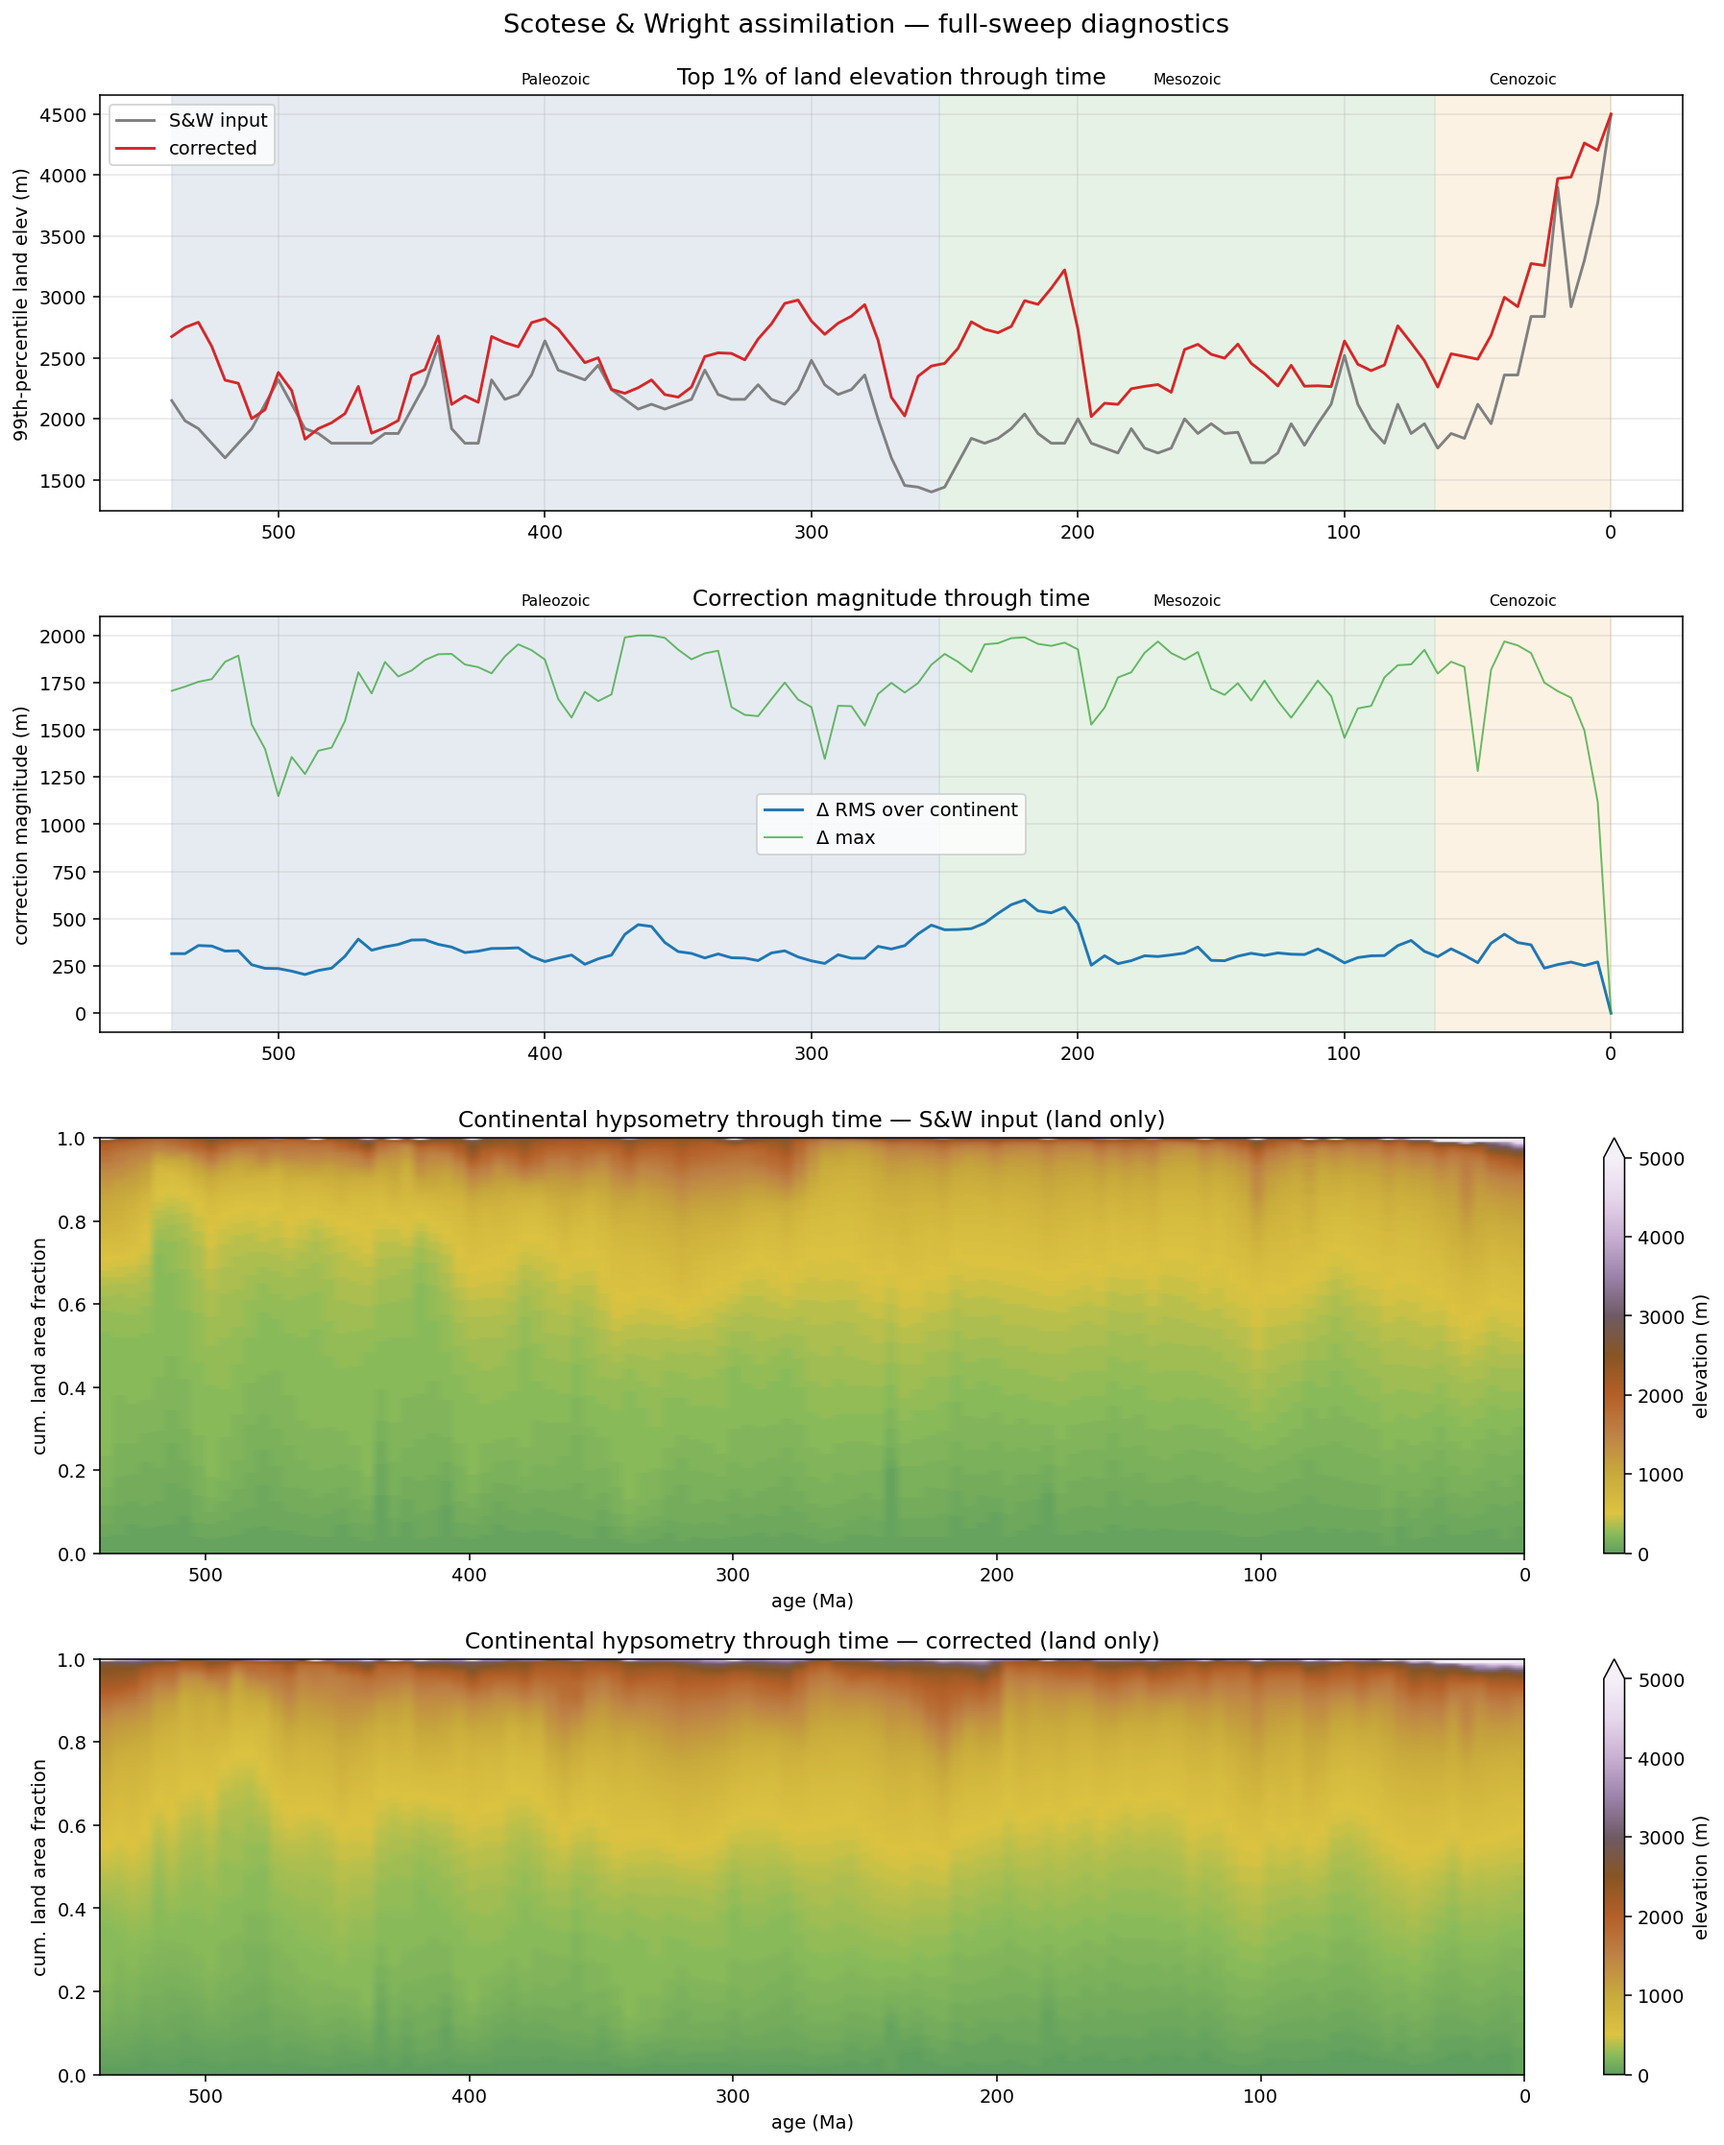
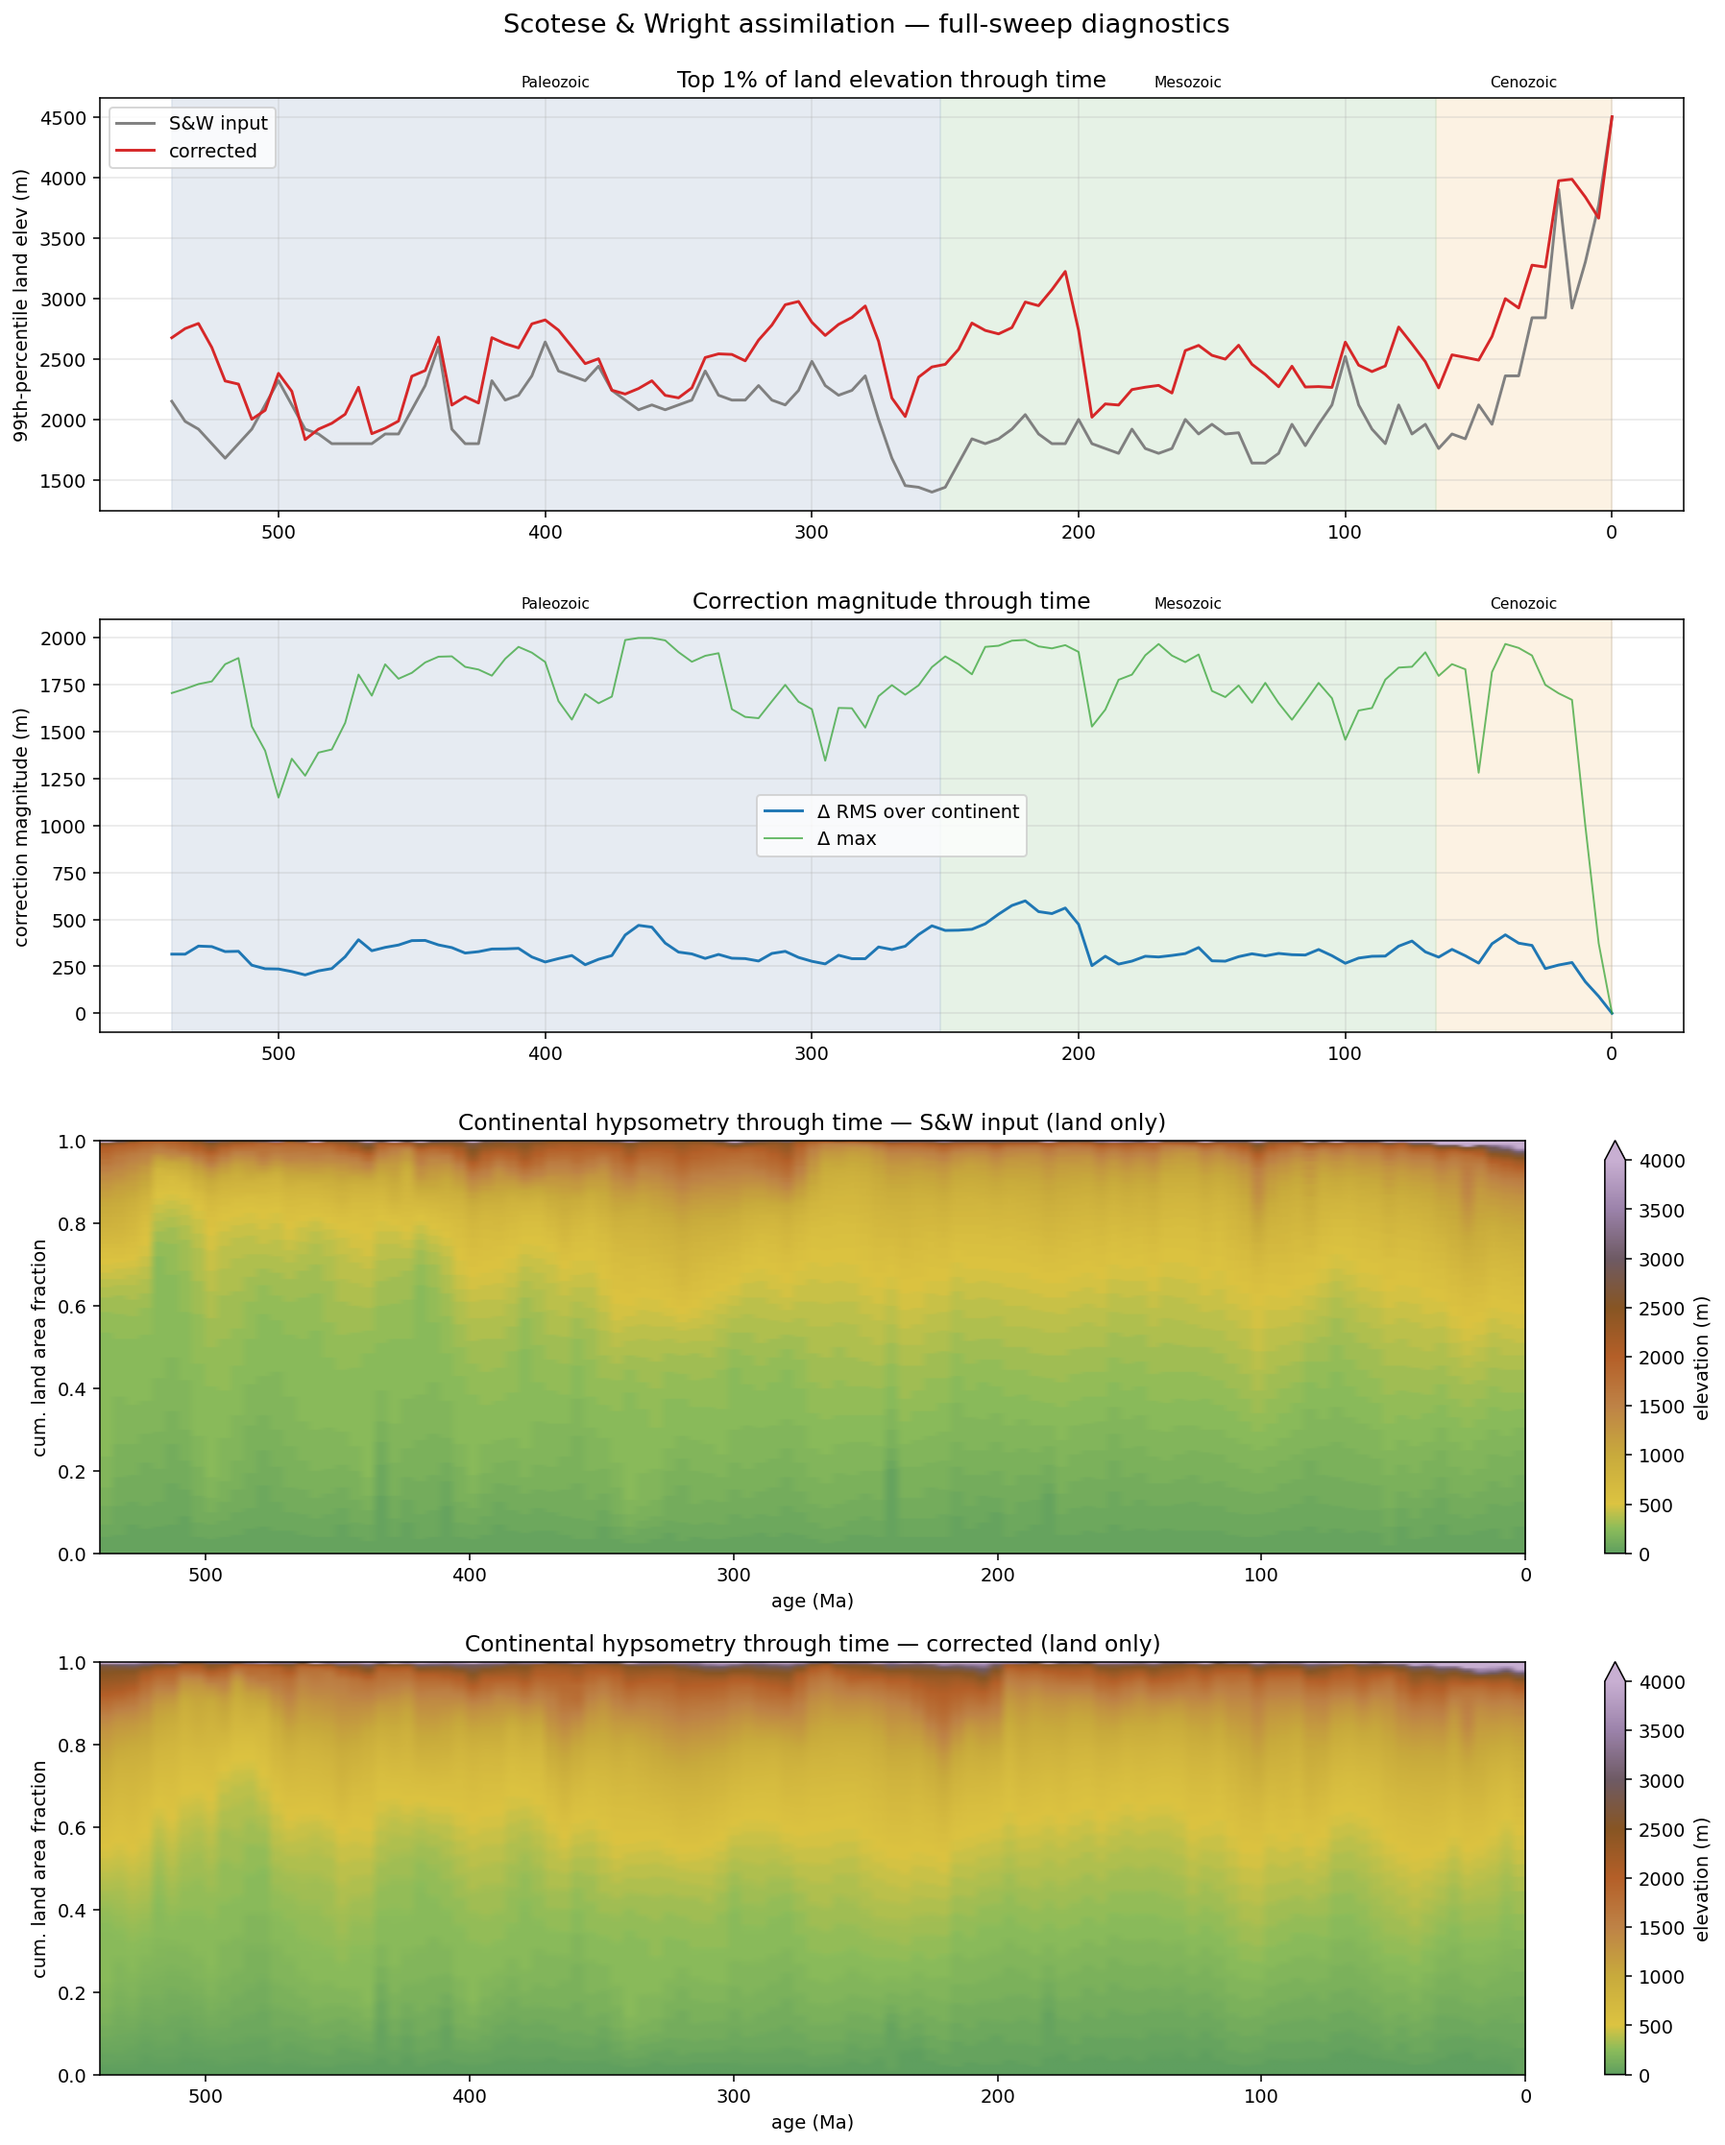
Taper geochem correction to zero at 0 Ma to remove young-age bypass artefact (YOUNG_TAPER_T_FULL=15 Ma)

diff --git a/scripts/assimilate_scotese.py b/scripts/assimilate_scotese.py
@@ -194,6 +194,29 @@ W_MISSING_OVER40 = 0.25
 # zero-elevation cells in the rendered map.
 SUBAERIAL_FLOOR_M = 1.0
 
+# --- Young-age correction taper --------------------------------------------
+# At 0 Ma the assimilation is bypassed entirely (M_corrected = M_orig): the
+# present-day DEM is observed directly and must not be altered.  But the
+# geochem correction is at full amplitude the instant one steps off 0 Ma
+# (delta ~ +100 m mean over land at 5 Ma), so a chained / time-stepping
+# consumer of the corrected DEMs (e.g. a stepwise landscape-evolution model)
+# sees a broad continental step appear across the 0<->5 Ma boundary that is
+# an artefact of the bypass, not tectonics.  The method was designed to
+# amplitude-correct the kinematic prior in DEEP time, where the sparse
+# geochem samples are spatially bled into a geologically plausible field;
+# the youngest Cenozoic (plates near modern positions, S&W already close to
+# truth) never needed it, and the abrupt 0-Ma switch was an unintended
+# side effect.
+#
+# We therefore taper the correction smoothly to zero as t -> 0 over a short
+# young-age window: ramp(t) = min(1, t / YOUNG_TAPER_T_FULL).  This leaves
+# 0 Ma untouched (ramp = 0, i.e. the existing bypass), leaves ages
+# >= YOUNG_TAPER_T_FULL untouched (ramp = 1, full correction), and blends
+# partial corrections in between so no single step carries the full jump.
+# It is a per-age, same-frame rescale of the (M_final - M_orig) field, so it
+# is independent of plate motion.  Set YOUNG_TAPER_T_FULL = 0.0 to disable.
+YOUNG_TAPER_T_FULL = 15.0
+
 # Depth at which corrections fade to zero in submerged cells.  Replaces
 # the previous binary "still-submerged → revert to M_orig" guard, which
 # created a step-function discontinuity at the M_orig=0 coastline
@@ -872,6 +895,42 @@ def finalise(M_orig, M_cand, cont_mask):
 
 
 # ---------------------------------------------------------------------------
+# Young-age correction taper
+# ---------------------------------------------------------------------------
+def young_taper_ramp(t):
+    """Linear taper weight for the geochem correction near present day.
+
+    0 at 0 Ma (the present-day bypass), rising linearly to 1 at
+    YOUNG_TAPER_T_FULL, and clamped to 1 for older ages.  See the
+    YOUNG_TAPER_T_FULL comment block for the rationale.
+    """
+    if YOUNG_TAPER_T_FULL is None or YOUNG_TAPER_T_FULL <= 0:
+        return 1.0
+    return float(min(1.0, max(0.0, t / YOUNG_TAPER_T_FULL)))
+
+
+def apply_young_taper(t, M_orig, M_final, cont_mask):
+    """Scale the assimilation correction (M_final - M_orig) by the young-age
+    ramp, re-applying finalise()'s invariants (safety bounds, ocean =
+    M_orig, subaerial floor).  A no-op for ages >= YOUNG_TAPER_T_FULL.
+
+    This is a same-age, per-cell rescale of the correction field, so it
+    carries no plate-motion dependence: it only changes HOW MUCH of the
+    already-computed correction is applied at young ages, never WHERE.
+    """
+    r = young_taper_ramp(t)
+    if r >= 1.0:
+        return M_final
+    delta = (M_final - M_orig) * r            # shrink toward the S&W prior
+    Mt = np.clip(M_orig + delta, ZMIN, ZMAX)
+    Mt = np.where(cont_mask, Mt, M_orig)      # ocean untouched
+    was_subaerial = (M_orig > 0)
+    Mt = np.where(was_subaerial & (Mt < SUBAERIAL_FLOOR_M),
+                  SUBAERIAL_FLOOR_M, Mt)
+    return Mt
+
+
+# ---------------------------------------------------------------------------
 # Per-slice orchestrator
 # ---------------------------------------------------------------------------
 def assimilate_one(t, save_nc=True):
@@ -1028,6 +1087,18 @@ def assimilate_one(t, save_nc=True):
         r, n_eff_grid = smoothed_residual(M3, P_g, dec, lat, lon, cont, ls_km=RESID_LS_KM)
         M_final = finalise(M, M3 + r, cont)
 
+    # Young-age correction taper: ramp the geochem correction to zero at
+    # 0 Ma (removes the present-day-bypass discontinuity for chained /
+    # time-stepping consumers).  No-op for t >= YOUNG_TAPER_T_FULL, and the
+    # 0 Ma slice already returned via the bypass above.  Applied before the
+    # diagnostics so the reported bias/RMS/p99/Δ_rms and the written grid
+    # describe the same (tapered) field.
+    _r_taper = young_taper_ramp(t)
+    if _r_taper < 1.0:
+        M_final = apply_young_taper(t, M, M_final, cont)
+        print(f"             young-age taper: ramp({t:.0f} Ma)={_r_taper:.3f} "
+              f"→ correction scaled to {100*_r_taper:.0f} %")
+
     elapsed = time.time() - t0
     # Diagnostics
     bias_before = bias_after = rms_before = rms_after = np.nan
@@ -1075,6 +1146,8 @@ def assimilate_one(t, save_nc=True):
                         f"local_support_km={LOCAL_SUPPORT_KM}; "
                         f"depth_fade_m={DEPTH_FADE_M}; "
                         f"classifier={PROVINCE_CLASSIFIER}")
+            f.young_taper_t_full_Ma = float(YOUNG_TAPER_T_FULL)
+            f.young_taper_ramp = float(young_taper_ramp(t))
     return summary, M, M_final, P_g, cont, dec
 
 

diff --git a/README.md b/README.md
@@ -274,6 +274,29 @@ production values used for the Phanerozoic sweep released with the paper:
 | `FINAL_LAND_SMOOTH_SIGMA` | 0.0 (disabled) | optional subaerial-only Gaussian on M_corrected |
 | `CONT_MASK_CLOSING_ITER` | 6 | morphological closing iterations on the continent mask (fills polygon gaps up to ~12 cells wide) |
 
+### Young-age correction taper
+
+| Parameter | Default | Role |
+|---|---|---|
+| `YOUNG_TAPER_T_FULL` | 15 Ma | age by which the geochem correction reaches full strength; it is ramped linearly to zero at 0 Ma (`0.0` disables the taper) |
+
+At 0 Ma the assimilation is bypassed by design — the present-day DEM is
+observed directly and must not be altered, so `delta ≡ 0`.  Without a
+taper the correction jumps to its full amplitude (`delta ≈ +100 m` mean
+over land) at the very next slice (5 Ma), so a chained or time-stepping
+consumer of the corrected DEMs (e.g. a stepwise landscape-evolution
+model) sees a broad continental step appear across the 0↔5 Ma boundary
+that is an artefact of the bypass rather than tectonics.  The method was
+designed to amplitude-correct the kinematic prior in *deep* time, where
+sparse geochem samples are spatially bled into a geologically plausible
+field; the youngest Cenozoic — plates near their modern positions, S&W
+already close to truth — never required it.  `YOUNG_TAPER_T_FULL` ramps
+the correction `ramp(t) = min(1, t / T_full)` so it grows smoothly from
+the fixed 0 Ma DEM instead of switching on abruptly.  Because it is a
+per-age, same-frame rescale of `M_corrected − M_orig`, it is independent
+of plate motion, leaves ages ≥ `T_full` unchanged, and only affects the
+5 and 10 Ma slices at the default value.
+
 ### Continent / province classification
 
 | Parameter | Default | Role |
